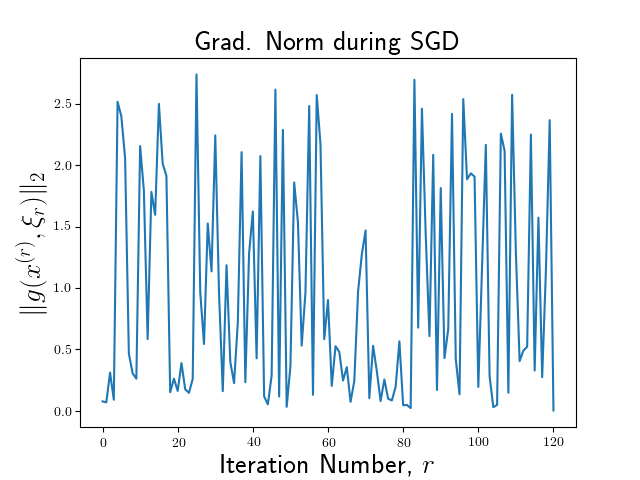
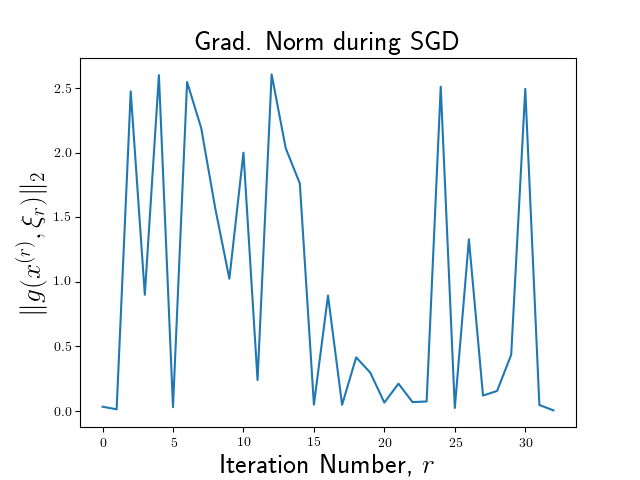
Updated init_lr SGD

diff --git a/SVRG_experiments.py b/SVRG_experiments.py
@@ -48,7 +48,7 @@ def get_logistic_loss(X, y, w, reg):
     return loss
 
 
-def SGD_logistic(X, y, init_lr=0.5, a=5, eps=0.01): # Before init_lr 1e-3, a =1.1
+def SGD_logistic(X, y, init_lr=1, a=2, eps=0.01): # Before init_lr 1e-3, a =1.1
     ''' Implements SGD using exponential decay learning rate scheduling.
     
     Parameters:
